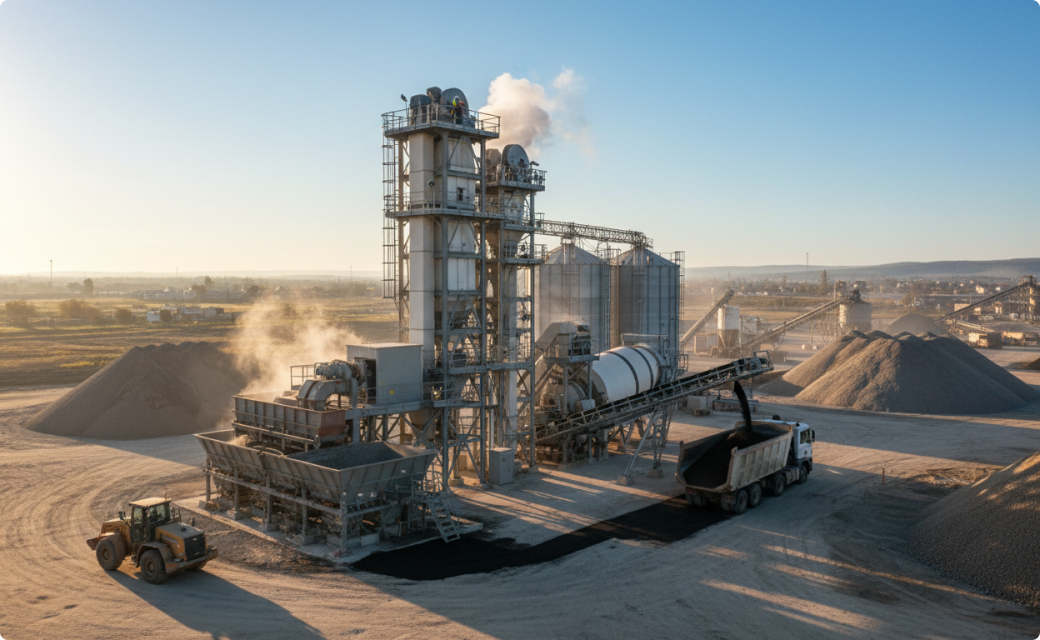
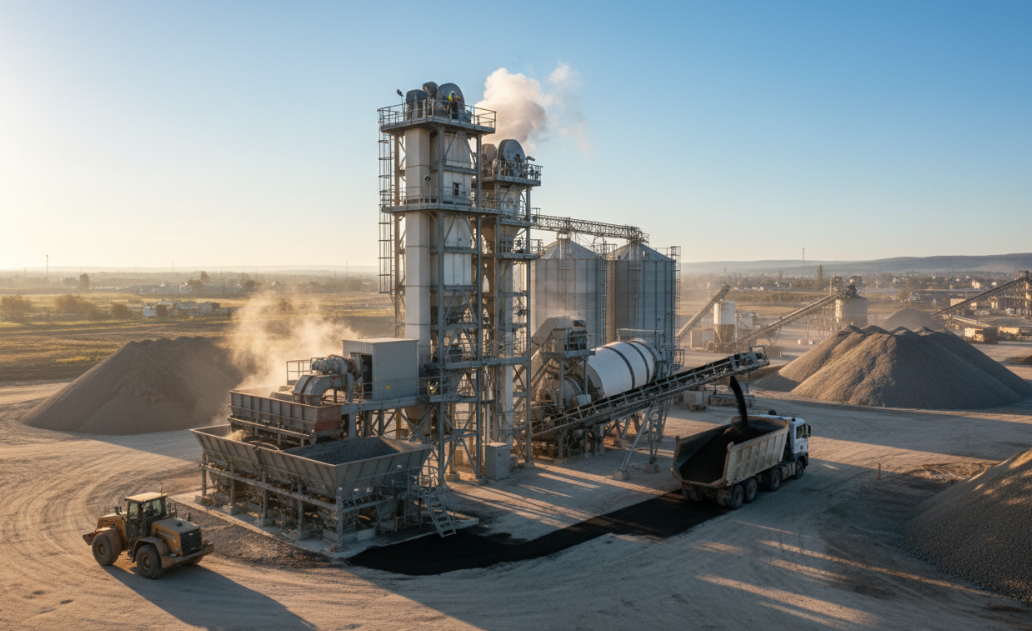
+5services

diff --git a/services.html b/services.html
@@ -63,9 +63,11 @@
 
     <div class="grid">
 
-      <article class="card reveal">
+      <article class="card-serv reveal">
         
-        <div class="number">01</div>
+        <div>
+
+          <div class="number">01</div>
 
         <h3>Производство и продажа стройматериалов</h3>
 
@@ -78,13 +80,17 @@
 
         </ul>
 
-        <!-- <img width="400" src="./images/services_01.png" alt=""> -->
+        </div>
+        
+        <img width="400" src="./images/services_01.png" alt="">
 
       </article>
 
-      <article class="card reveal">
+      <article class="card-serv reveal">
         
-        <div class="number">02</div>
+        <div>
+
+          <div class="number">02</div>
 
         <h3>Железнодорожная инфраструктура</h3>
 
@@ -100,29 +106,41 @@
         
         </ul>
 
+        </div>
+        
+        <img width="400" src="./images/services_02.png" alt="">
+
       </article>
       
-      <article class="card reveal">
+      <article class="card-serv reveal">
   
-        <div class="number">03</div>
-        
-        <h3>Ремонт железнодорожного подвижного состава</h3>
-        
-        <ul class="text-list">
+        <div>
+
+          <div class="number">03</div>
           
-          <li>Капитальный и средний ремонт специального подвижного состава.</li>
+          <h3>Ремонт железнодорожного подвижного состава</h3>
           
-          <li>Текущий отцепочный ремонт грузовых вагонов.</li>
+          <ul class="text-list">
+            
+            <li>Капитальный и средний ремонт специального подвижного состава.</li>
+            
+            <li>Текущий отцепочный ремонт грузовых вагонов.</li>
+            
+            <li>Диагностика и дефектовка колесных пар и рам.</li>
           
-          <li>Диагностика и дефектовка колесных пар и рам.</li>
-        
-        </ul>
-    
+          </ul>
+
+        </div>
+
+        <img width="400" src="./images/services_03.png" alt="">
+
       </article>
       
-      <article class="card reveal">
+      <article class="card-serv reveal">
         
-        <div class="number">04</div>
+        <div>
+
+          <div class="number">04</div>
         
         <h3>Аренда дорожно-строительной техники</h3>
         
@@ -137,6 +155,36 @@
           <li>Бульдозеры Caterpillar D6 и автокраны 25/50 тонн.</li>
         
         </ul>
+
+        </div>
+
+        <img width="400" src="./images/services_04.png" alt="">
+
+      </article>
+
+      <article class="card-serv reveal">
+        
+        <div>
+
+          <div class="number">05</div>
+        
+        <h3>Выполняем следующие виды работ</h3>
+        
+        <ul class="text-list">
+          
+          <li>Токарные работы.</li>
+          
+          <li>Сварочные работы.</li>
+          
+          <li>Прокладка инженерных сетей методом прокола.</li>
+          
+          <li>Прокладка газопроводов.</li>
+        
+        </ul>
+
+        </div>
+
+        <img width="400" src="./images/services_05.png" alt="">
 
       </article>
 

diff --git a/style.css b/style.css
@@ -324,7 +324,37 @@ url(./images/main_photo.jpg) center/cover
 .card-serv {
     display: flex;
     justify-content: space-between;
-    
+    border:1px solid var(--line);
+    background:#fff;
+    padding:28px;
+    transition:.3s
+}
+
+.card-serv:hover {
+    transform:translateY(-7px);
+    box-shadow:var(--shadow);
+    border-color:#d9dce0
+}
+
+.card-serv .number {
+    color:var(--accent);
+    font-size:12px;
+    font-weight:800;
+    margin-bottom:20px
+}
+
+.card-serv h3 {
+    font-size:19px;
+    margin-bottom:12px
+}
+
+.card-serv p {
+    font-size:14px;
+    color:var(--muted)
+}
+
+.card-serv img{
+    border-radius: 3px;
 }
 
 .card {
